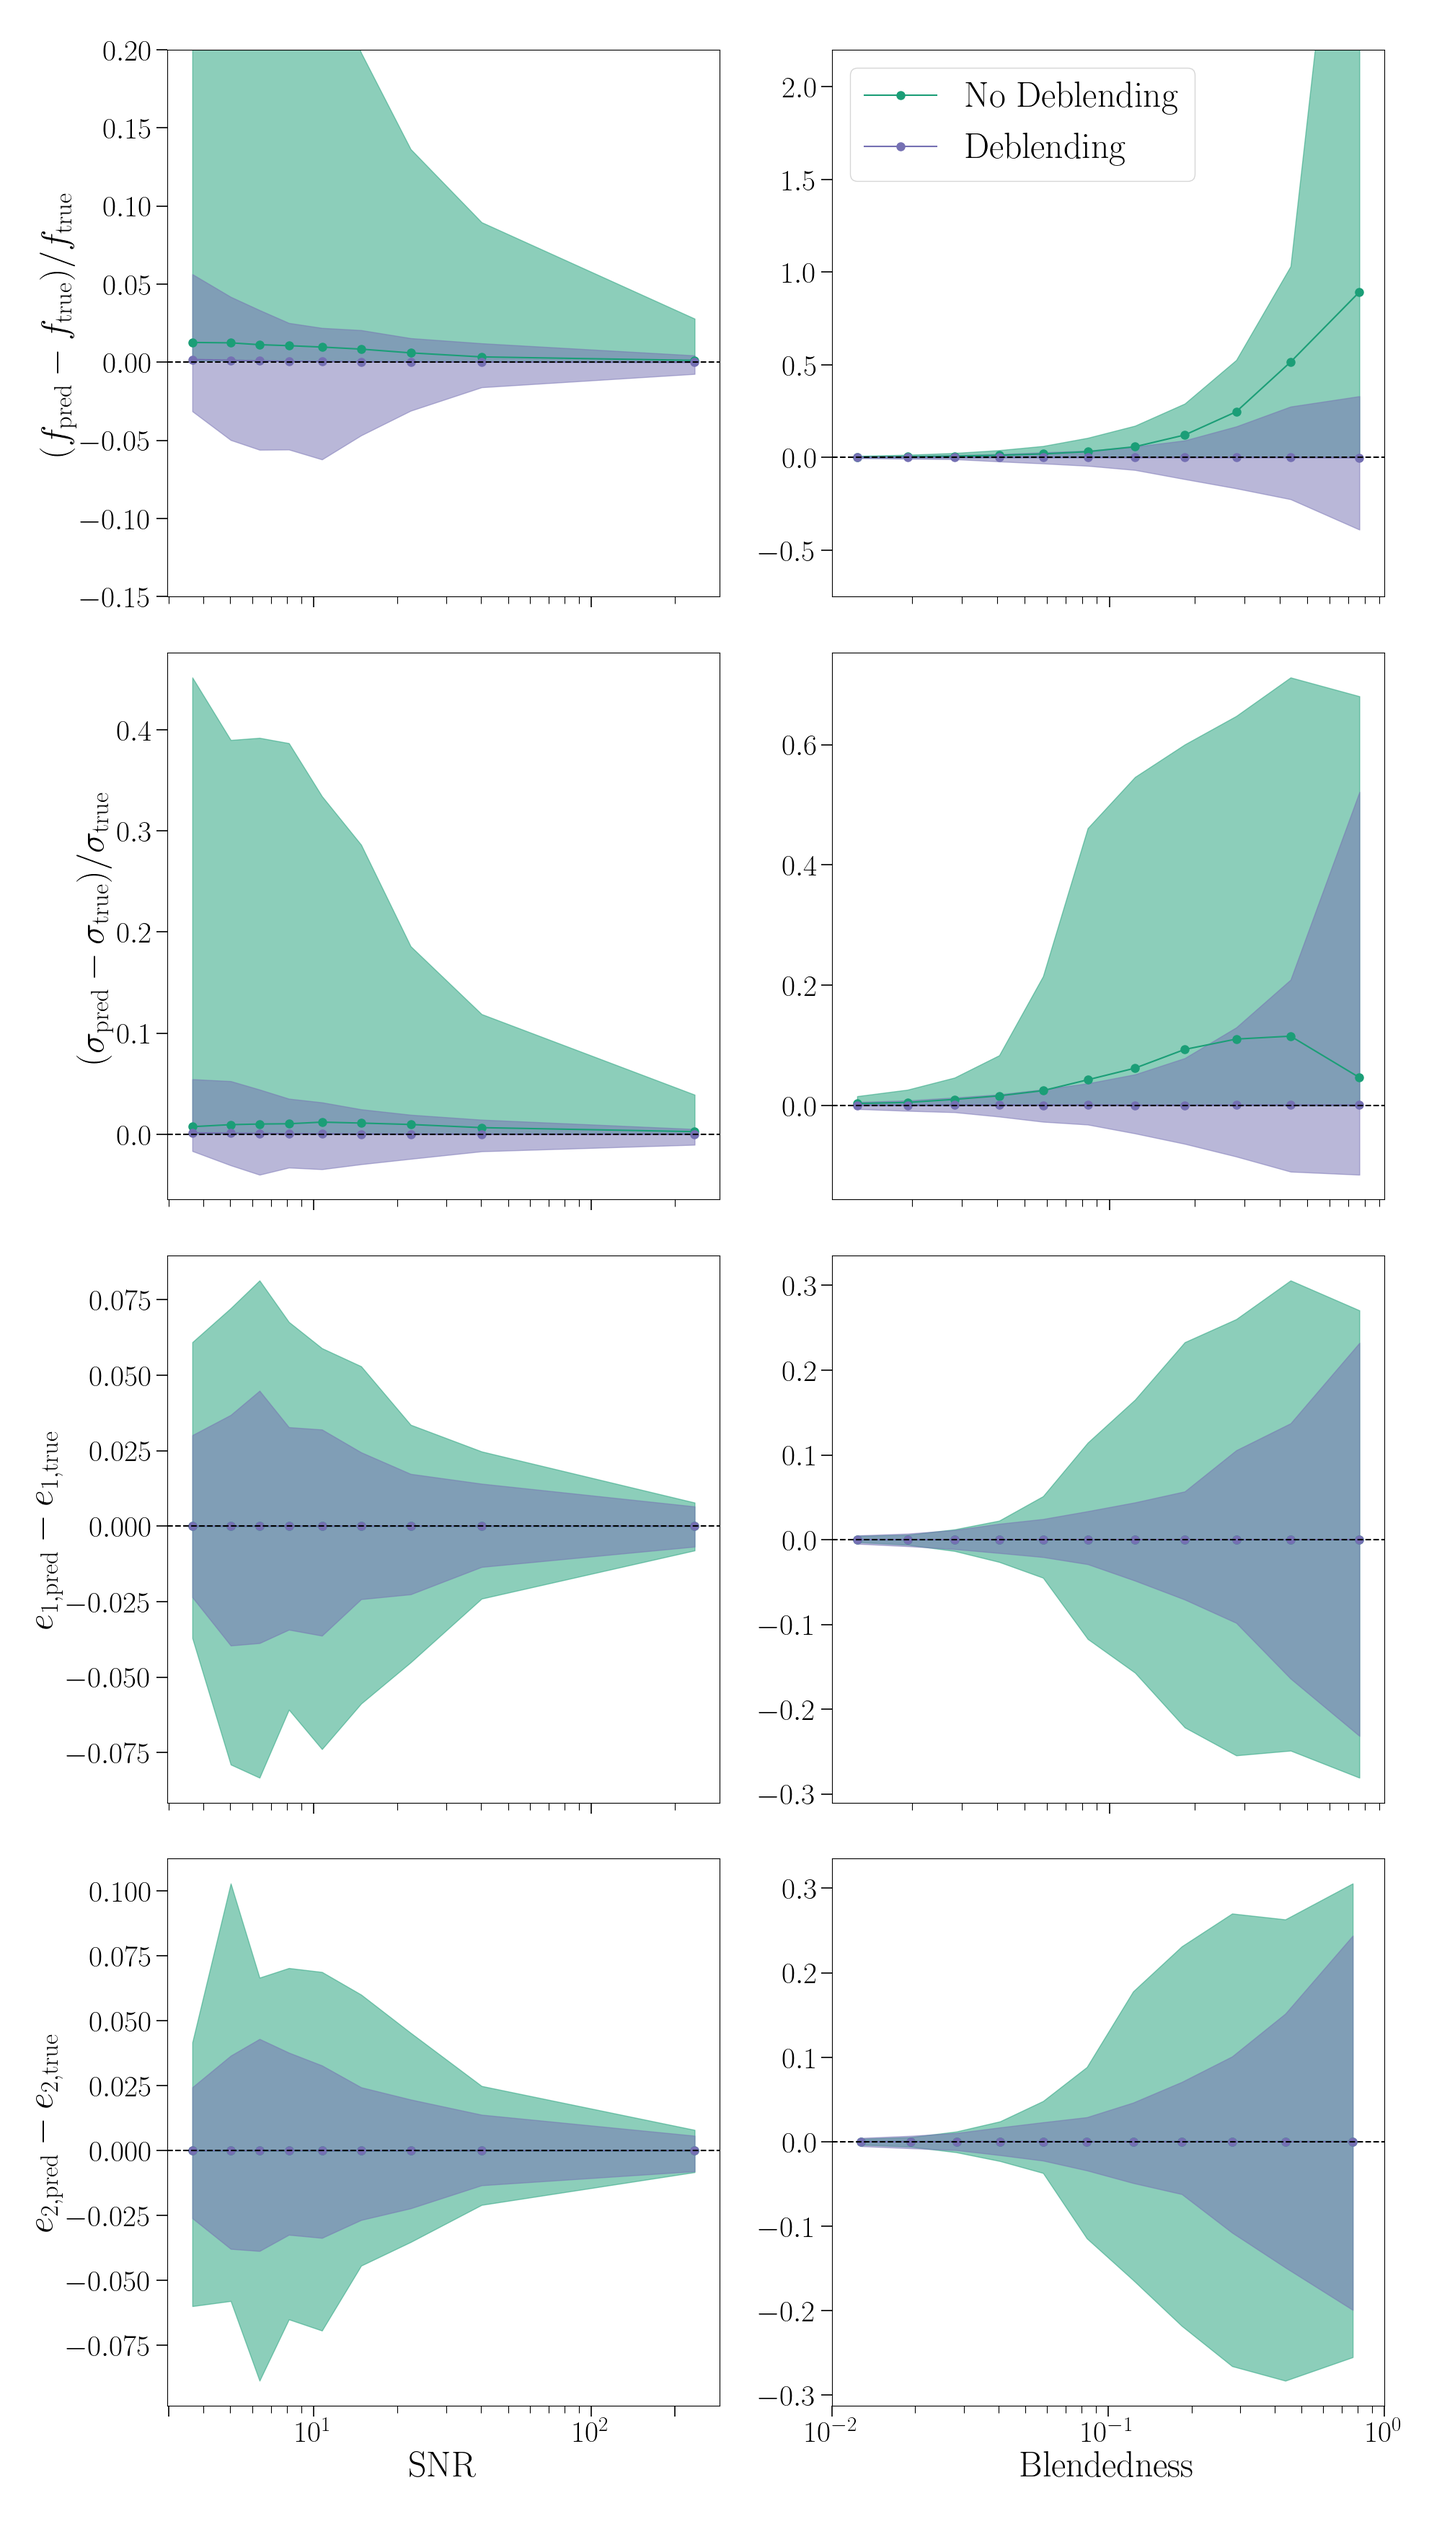
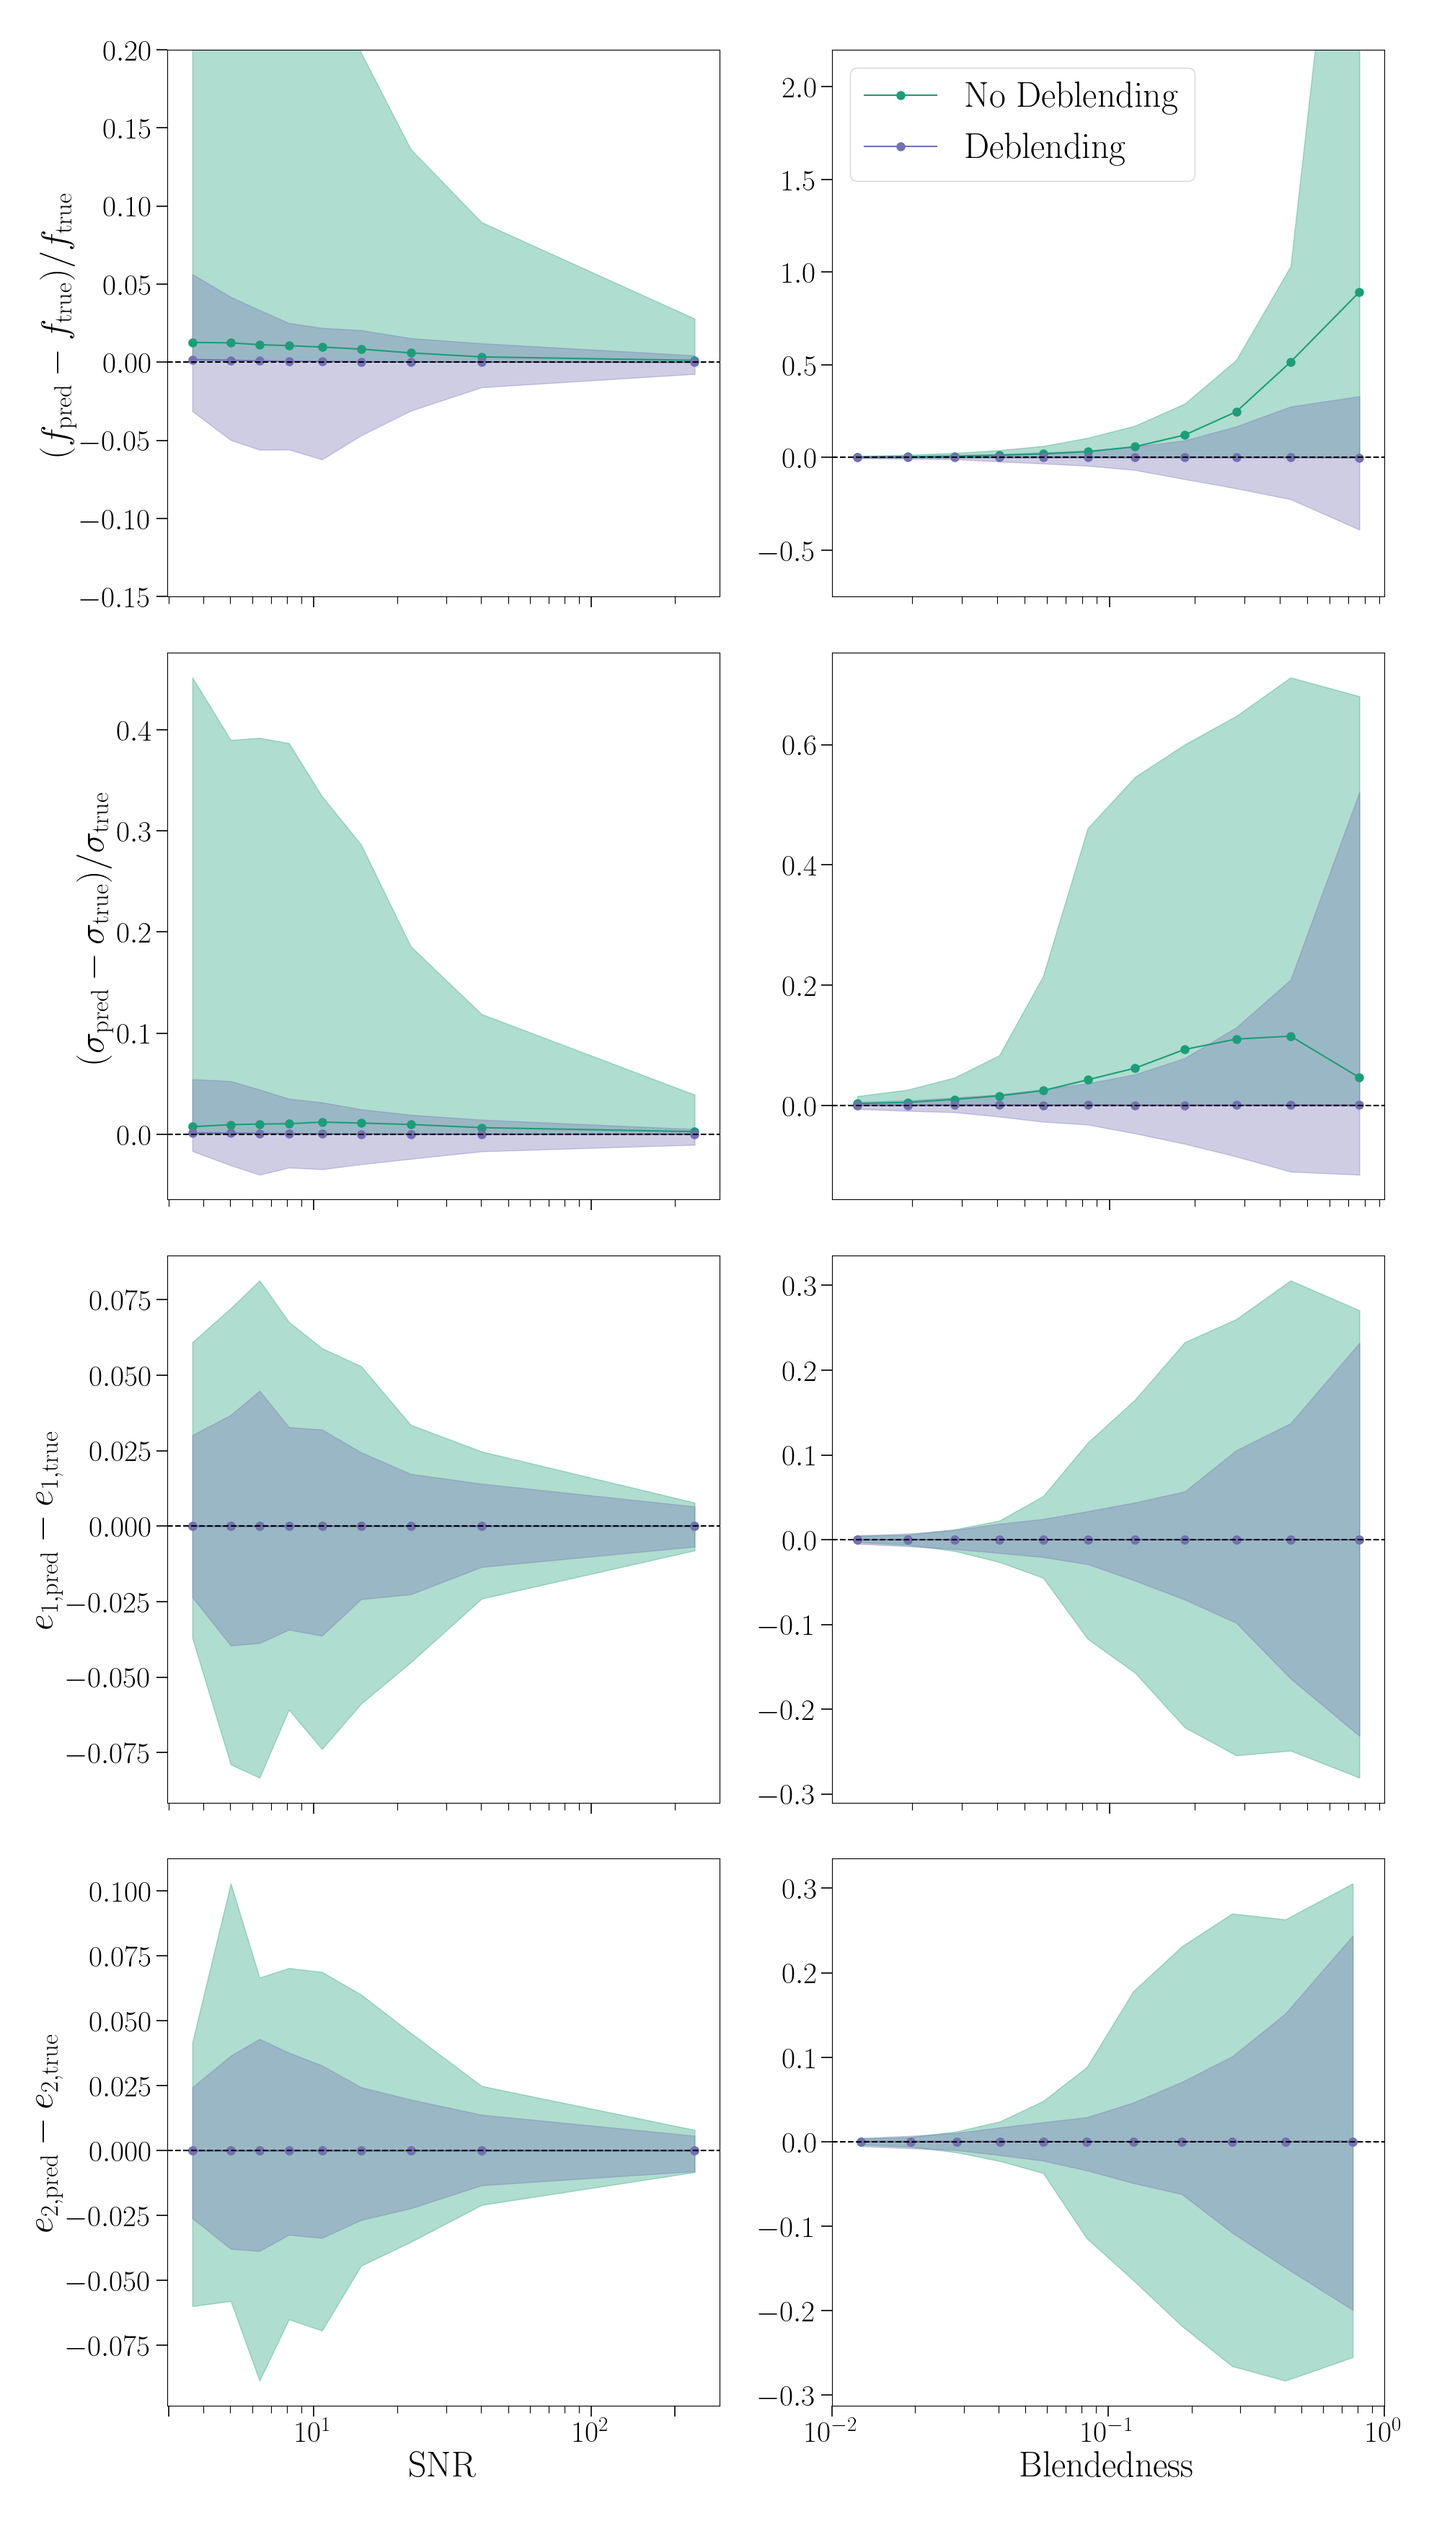
shading

diff --git a/experiment/scripts_figures/deblend_figures.py b/experiment/scripts_figures/deblend_figures.py
@@ -404,12 +404,13 @@ class DeblendingFigures(BlissFigure):
 
         c1 = CLR_CYCLE[0]
         c2 = CLR_CYCLE[1]
+        _alpha = 0.35
 
         ax = axes[0, 0]
         ax.plot(10**snr_middle, meds1, marker="o", color=c1, label=r"\rm No Deblending")
-        ax.fill_between(10**snr_middle, qs11, qs12, color=c1, alpha=0.5)
+        ax.fill_between(10**snr_middle, qs11, qs12, color=c1, alpha=_alpha)
         ax.plot(10**snr_middle, meds2, marker="o", color=c2, label=r"\rm Deblending")
-        ax.fill_between(10**snr_middle, qs21, qs22, color=c2, alpha=0.5)
+        ax.fill_between(10**snr_middle, qs21, qs22, color=c2, alpha=_alpha)
         ax.set_xscale("log")
         ax.set_ylim(-0.15, 0.2)
         ax.set_ylabel(r"$ (f_{\rm pred} - f_{\rm true}) / f_{\rm true}$")
@@ -421,9 +422,9 @@ class DeblendingFigures(BlissFigure):
 
         ax = axes[0, 1]
         ax.plot(bld_middle, meds1, marker="o", color=c1, label=r"\rm No Deblending")
-        ax.fill_between(bld_middle, qs11, qs12, color=c1, alpha=0.5)
+        ax.fill_between(bld_middle, qs11, qs12, color=c1, alpha=_alpha)
         ax.plot(bld_middle, meds2, marker="o", color=c2, label=r"\rm Deblending")
-        ax.fill_between(bld_middle, qs21, qs22, color=c2, alpha=0.5)
+        ax.fill_between(bld_middle, qs21, qs22, color=c2, alpha=_alpha)
         ax.legend()
         ax.set_xscale("log")
         ax.set_ylim(-0.75, 2.2)
@@ -439,9 +440,9 @@ class DeblendingFigures(BlissFigure):
 
         ax = axes[1, 0]
         ax.plot(10**snr_middle, meds1, marker="o", color=c1, label=r"\rm No Deblending")
-        ax.fill_between(10**snr_middle, qs11, qs12, color=c1, alpha=0.5)
+        ax.fill_between(10**snr_middle, qs11, qs12, color=c1, alpha=_alpha)
         ax.plot(10**snr_middle, meds2, marker="o", color=c2, label=r"\rm Deblending")
-        ax.fill_between(10**snr_middle, qs21, qs22, color=c2, alpha=0.5)
+        ax.fill_between(10**snr_middle, qs21, qs22, color=c2, alpha=_alpha)
         ax.set_xscale("log")
         ax.set_ylabel(r"$ (\sigma_{\rm pred} - \sigma_{\rm true}) / \sigma_{\rm true}$")
         ax.axhline(0.0, linestyle="--", color="k")
@@ -452,9 +453,9 @@ class DeblendingFigures(BlissFigure):
 
         ax = axes[1, 1]
         ax.plot(bld_middle, meds1, marker="o", color=c1, label=r"\rm No Deblending")
-        ax.fill_between(bld_middle, qs11, qs12, color=c1, alpha=0.5)
+        ax.fill_between(bld_middle, qs11, qs12, color=c1, alpha=_alpha)
         ax.plot(bld_middle, meds2, marker="o", color=c2, label=r"\rm Deblending")
-        ax.fill_between(bld_middle, qs21, qs22, color=c2, alpha=0.5)
+        ax.fill_between(bld_middle, qs21, qs22, color=c2, alpha=_alpha)
         ax.set_xscale("log")
         ax.axhline(0.0, linestyle="--", color="k")
         ax.axes.xaxis.set_ticklabels([])
@@ -467,9 +468,9 @@ class DeblendingFigures(BlissFigure):
 
         ax = axes[2, 0]
         ax.plot(10**snr_middle, meds1, marker="o", color=c1, label=r"\rm No Deblending")
-        ax.fill_between(10**snr_middle, qs11, qs12, color=c1, alpha=0.5)
+        ax.fill_between(10**snr_middle, qs11, qs12, color=c1, alpha=_alpha)
         ax.plot(10**snr_middle, meds2, marker="o", color=c2, label=r"\rm Deblending")
-        ax.fill_between(10**snr_middle, qs21, qs22, color=c2, alpha=0.5)
+        ax.fill_between(10**snr_middle, qs21, qs22, color=c2, alpha=_alpha)
         ax.set_xscale("log")
         ax.set_ylabel(r"$e_{1,\rm{pred}} -  e_{1,\rm{true}}$")
         ax.axhline(0.0, linestyle="--", color="k")
@@ -480,9 +481,9 @@ class DeblendingFigures(BlissFigure):
 
         ax = axes[2, 1]
         ax.plot(bld_middle, meds1, marker="o", color=c1, label=r"\rm No Deblending")
-        ax.fill_between(bld_middle, qs11, qs12, color=c1, alpha=0.5)
+        ax.fill_between(bld_middle, qs11, qs12, color=c1, alpha=_alpha)
         ax.plot(bld_middle, meds2, marker="o", color=c2, label=r"\rm Deblending")
-        ax.fill_between(bld_middle, qs21, qs22, color=c2, alpha=0.5)
+        ax.fill_between(bld_middle, qs21, qs22, color=c2, alpha=_alpha)
         ax.set_xscale("log")
         ax.axhline(0.0, linestyle="--", color="k")
         ax.axes.xaxis.set_ticklabels([])
@@ -495,9 +496,9 @@ class DeblendingFigures(BlissFigure):
 
         ax = axes[3, 0]
         ax.plot(10**snr_middle, meds1, marker="o", color=c1, label=r"\rm No Deblending")
-        ax.fill_between(10**snr_middle, qs11, qs12, color=c1, alpha=0.5)
+        ax.fill_between(10**snr_middle, qs11, qs12, color=c1, alpha=_alpha)
         ax.plot(10**snr_middle, meds2, marker="o", color=c2, label=r"\rm Deblending")
-        ax.fill_between(10**snr_middle, qs21, qs22, color=c2, alpha=0.5)
+        ax.fill_between(10**snr_middle, qs21, qs22, color=c2, alpha=_alpha)
         ax.set_xscale("log")
         ax.set_xticks([3, 10, 100, 200])
         ax.set_xlabel(r"\rm SNR")
@@ -509,9 +510,9 @@ class DeblendingFigures(BlissFigure):
 
         ax = axes[3, 1]
         ax.plot(bld_middle, meds1, marker="o", color=c1, label=r"\rm No Deblending")
-        ax.fill_between(bld_middle, qs11, qs12, color=c1, alpha=0.5)
+        ax.fill_between(bld_middle, qs11, qs12, color=c1, alpha=_alpha)
         ax.plot(bld_middle, meds2, marker="o", color=c2, label=r"\rm Deblending")
-        ax.fill_between(bld_middle, qs21, qs22, color=c2, alpha=0.5)
+        ax.fill_between(bld_middle, qs21, qs22, color=c2, alpha=_alpha)
         ax.set_xscale("log")
         ax.set_xticks([1e-2, 1e-1, 1])
         ax.set_xlabel(r"\rm Blendedness")
